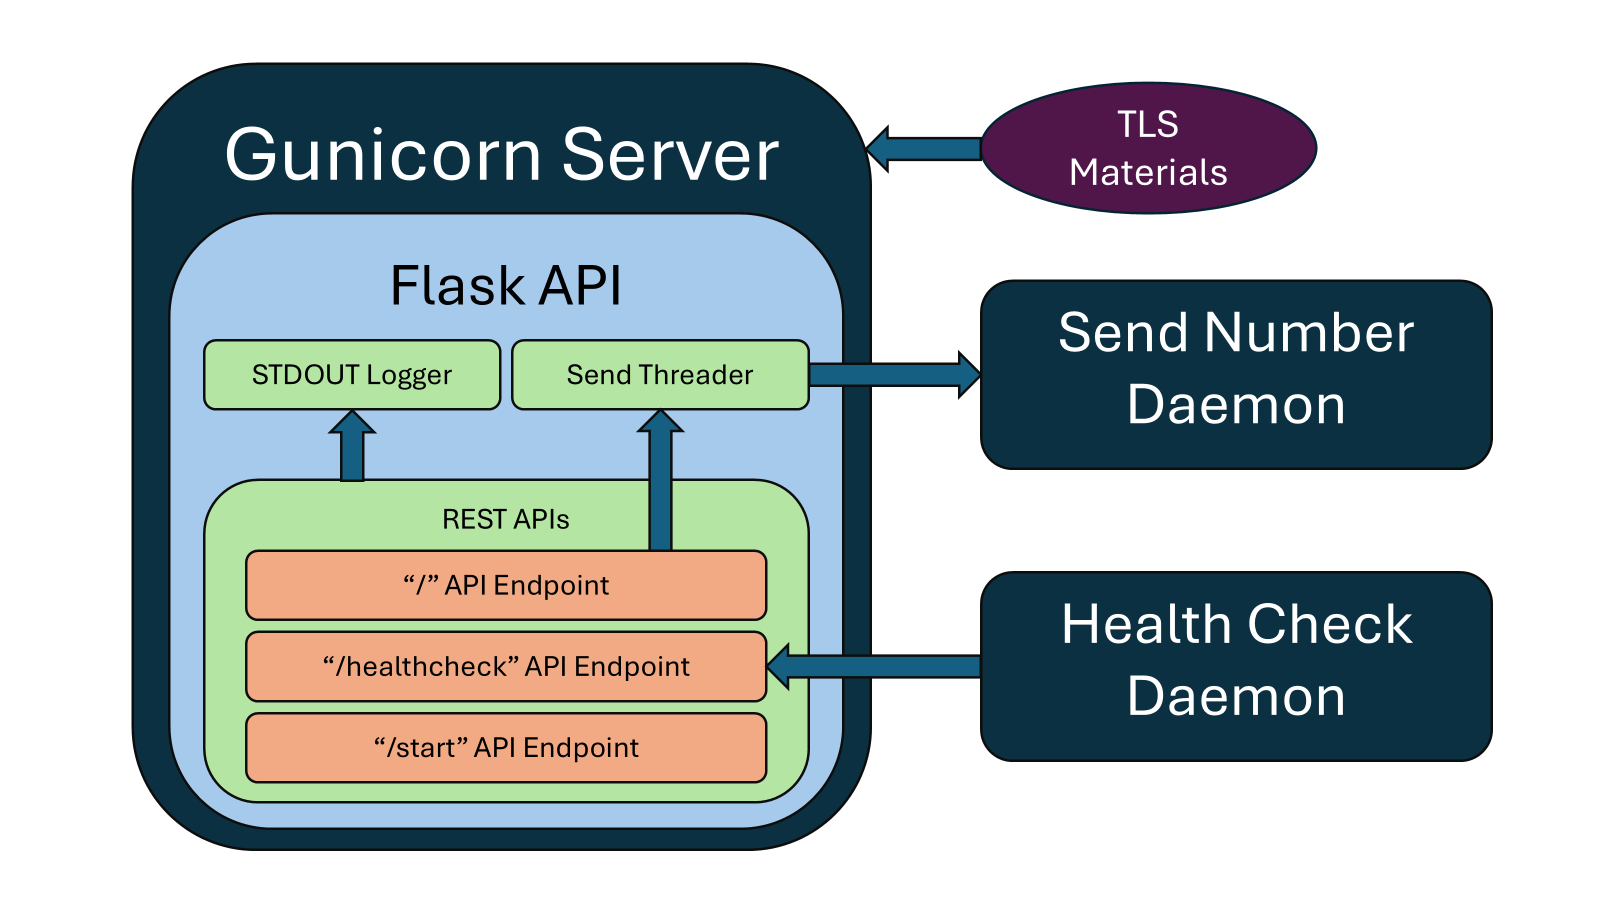
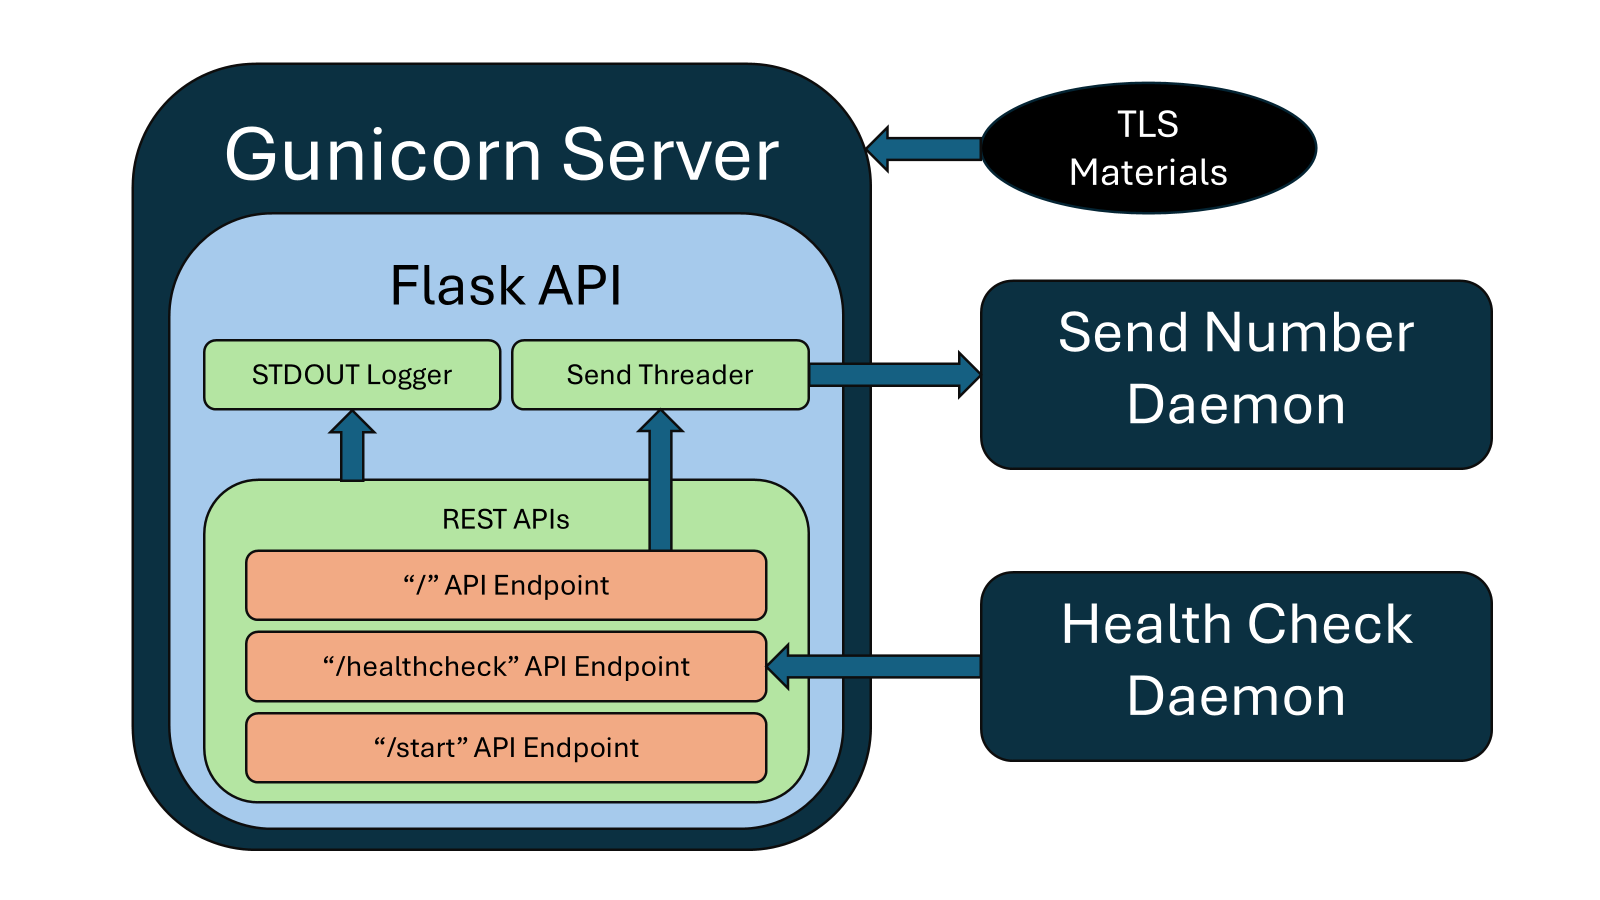
Updated graphics. Filled in use case one readme. Updated fibonacci image test python program to specify base folder.

Changed region(s): [[0.5938, 0.0933, 0.8438, 0.2489]]

diff --git a/fibonacci_image/TestGenTLS.py b/fibonacci_image/TestGenTLS.py
@@ -4,6 +4,7 @@ from cryptography.hazmat.primitives.asymmetric.rsa import RSAPrivateKey
 from cryptography import x509
 from cryptography.x509.oid import NameOID
 from datetime import datetime, timedelta, timezone
+from pathlib import Path
 
 
 def create_tls_materials(subject, cert_name, cert_days, issuer_key=None,
@@ -89,6 +90,9 @@ def create_tls_materials(subject, cert_name, cert_days, issuer_key=None,
     return key, cert
 
 
+# Get base folder
+BASE_FOLDER = Path(__file__).resolve().parent
+
 # Generate CA TLS materials
 ca_cert_name: str = 'ca.test.com'
 ca_subject = ca_issuer = x509.Name([
@@ -118,7 +122,7 @@ external_key, external_cert = create_tls_materials(
 )
 
 # Save TLS materials for EXTERNAL communication
-with open('test_self.key', 'w') as key_file:
+with open(f'{BASE_FOLDER}/test_self.key', 'w') as key_file:
     key_file.write(
         external_key.private_bytes(
             encoding=serialization.Encoding.PEM,
@@ -127,13 +131,13 @@ with open('test_self.key', 'w') as key_file:
         ).decode()
     )
 
-with open('test_self.crt', 'w') as cert_file:
+with open(f'{BASE_FOLDER}/test_self.crt', 'w') as cert_file:
     cert_file.write(
         external_cert.public_bytes(serialization.Encoding.PEM).decode()
     )
 
-with open('test_ca.key', 'w') as ca_key_file:
+with open(f'{BASE_FOLDER}/test_ca.key', 'w') as ca_key_file:
     ca_key_file.write(ca_key_bytes.decode())
 
-with open('test_ca.crt', 'w') as ca_cert_file:
+with open(f'{BASE_FOLDER}/test_ca.crt', 'w') as ca_cert_file:
     ca_cert_file.write(ca_cert_bytes.decode())
